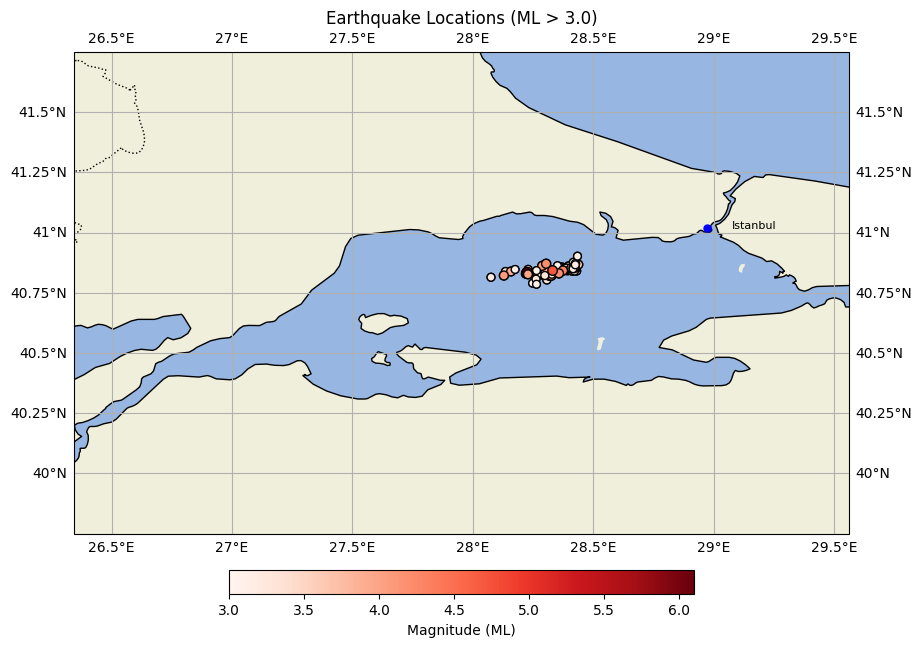
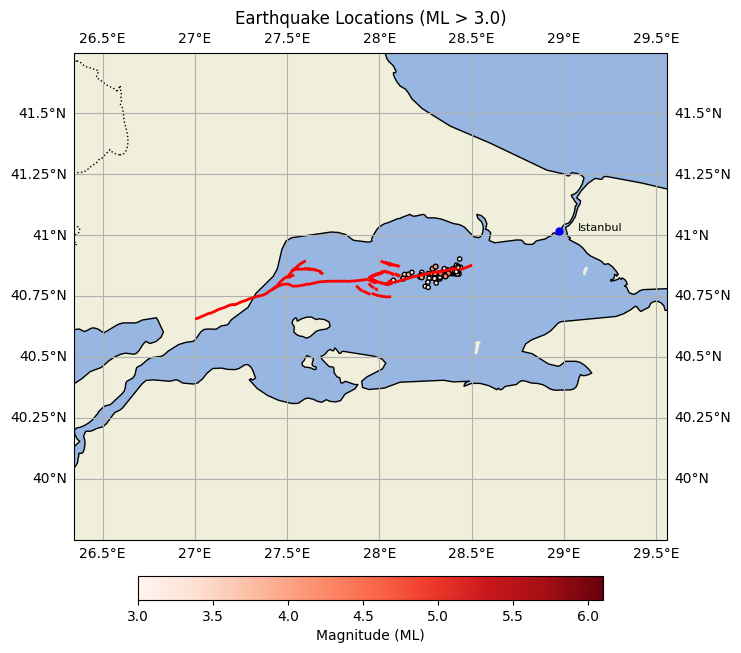
Added first part of fault lines of marmara to the map

diff --git a/process_earthquakes.py b/process_earthquakes.py
@@ -39,13 +39,23 @@ df = df[df['Magnitude'] >= min_magnitude]
 
 scatter = ax.scatter(
     df['Longitude'], df['Latitude'],
-    c=df['Magnitude'], s=df['Magnitude'] * 10,
+    c=df['Magnitude'], s=df['Magnitude'] * 3,
     cmap='Reds', edgecolor='black',
     transform=ccrs.PlateCarree()
 )
 
-plt.scatter(df['Longitude'], df['Latitude'], c=df['Magnitude'], s=df['Magnitude']*10, cmap='Reds', edgecolor='k')
-plt.title("Earthquake Locations (ML > " + str(min_magnitude) + ")")
+faults = gpd.read_file("data/tekirdag_segmenti.geojson")
+
+geoJsonFiles = [
+    "data/tekirdag_segmenti.geojson",
+    "data/orta_marmara_cukuru.geojson",
+    "data/kumburgaz_segmenti.geojson"
+]
+
+faults = gpd.GeoDataFrame(pd.concat([gpd.read_file(f) for f in geoJsonFiles], ignore_index=True))
+faults.plot(ax=ax, color='red', linewidth=2, transform=ccrs.PlateCarree())
+
+plt.title(f"Earthquake Locations (ML > {min_magnitude})")
 cbar = plt.colorbar(scatter, ax=ax, orientation='horizontal', shrink=0.6, pad=0.06)
 cbar.set_label('Magnitude (ML)')
 plt.savefig("last_earthquakes_istanbul.png", bbox_inches='tight', pad_inches=0.1)
